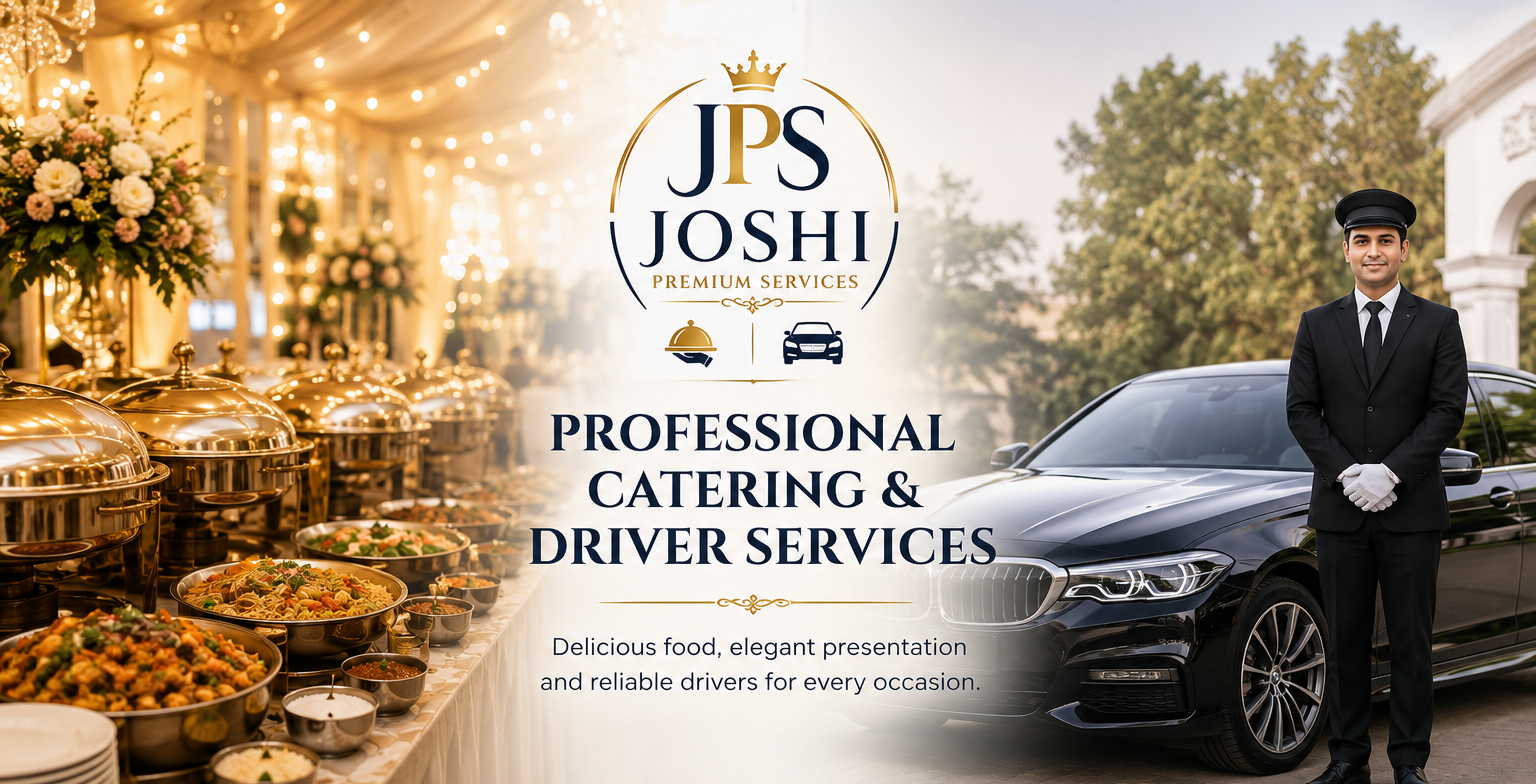
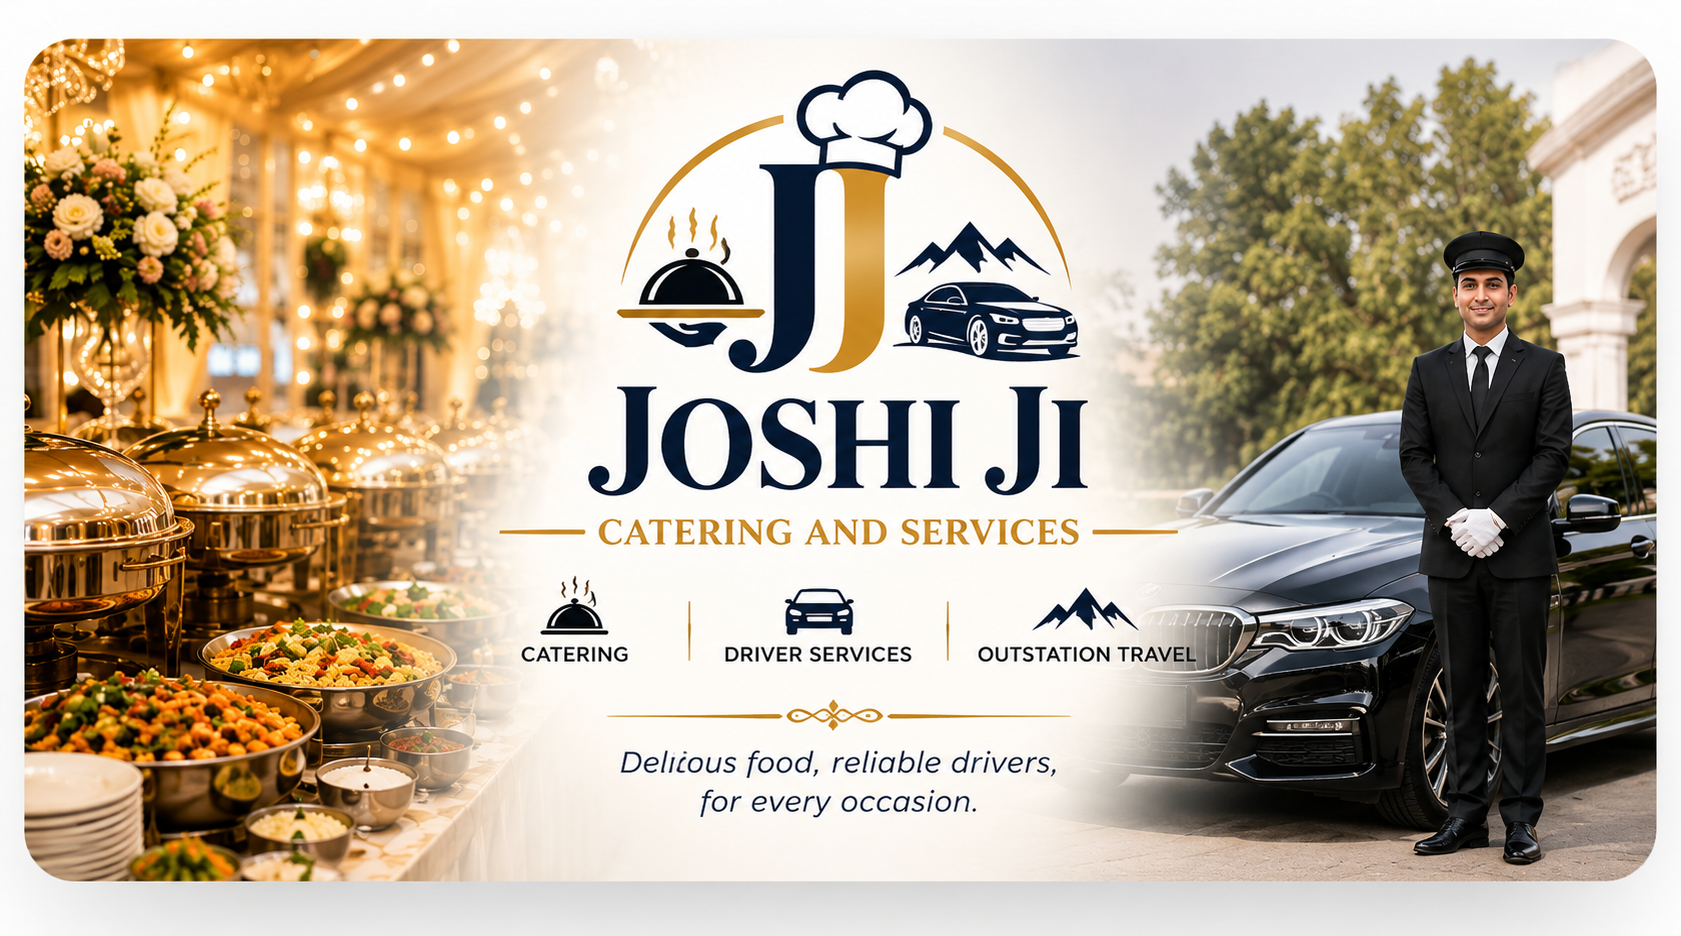
improved responsive service area cards

diff --git a/index.html b/index.html
@@ -6,11 +6,11 @@
     <meta name="viewport" content="width=device-width, initial-scale=1.0">
 
     <!-- Primary SEO -->
-    <title>Joshi Premium Services | Catering & Driver Services in Haldwani, Uttarakhand</title>
+    <title>Joshi Ji Catering And Services | Catering & Driver Services in Haldwani, Uttarakhand</title>
     <meta name="description"
-        content="Joshi Premium Services provides professional catering and reliable driver services for weddings, family functions, corporate events and outstation travel in Haldwani, Kathgodam, Nainital, Rudrapur and nearby areas of Uttarakhand.">
+        content="Joshi Ji Catering And Services provides professional catering and reliable driver services for weddings, family functions, corporate events and outstation travel in Haldwani, Kathgodam, Nainital, Rudrapur and nearby areas of Uttarakhand.">
     <meta name="robots" content="index, follow">
-    <meta name="author" content="Joshi Premium Services">
+    <meta name="author" content="Joshi Ji Catering And Services">
     <meta name="theme-color" content="#0f172a">
 
     <!-- Canonical URL -->
@@ -18,16 +18,17 @@
 
     <!-- Open Graph -->
     <meta property="og:type" content="website">
-    <meta property="og:title" content="Joshi Premium Services | Catering & Driver Services in Haldwani, Uttarakhand">
+    <meta property="og:title"
+        content="Joshi Ji Catering And Services | Catering & Driver Services in Haldwani, Uttarakhand">
     <meta property="og:description"
         content="Professional catering and reliable driver services for events, functions and outstation travel in Haldwani and nearby areas of Uttarakhand.">
     <meta property="og:url" content="https://vanshikjoshi.github.io/Joshi-Premium-Services/">
     <meta property="og:image" content="https://vanshikjoshi.github.io/Joshi-Premium-Services/Logop.png">
-    <meta property="og:site_name" content="Joshi Premium Services">
+    <meta property="og:site_name" content="Joshi Ji Catering And Services">
 
     <!-- Twitter / social sharing -->
     <meta name="twitter:card" content="summary">
-    <meta name="twitter:title" content="Joshi Premium Services | Catering & Driver Services in Haldwani">
+    <meta name="twitter:title" content="Joshi Ji Catering And Services | Catering & Driver Services in Haldwani">
     <meta name="twitter:description"
         content="Professional catering and reliable driver services in Haldwani and nearby areas of Uttarakhand.">
     <meta name="twitter:image" content="https://vanshikjoshi.github.io/Joshi-Premium-Services/Logop.png">
@@ -42,7 +43,7 @@
     {
         "@context": "https://schema.org",
         "@type": "LocalBusiness",
-        "name": "Joshi Premium Services",
+        "name": "Joshi Ji Catering And Services",
         "url": "https://vanshikjoshi.github.io/Joshi-Premium-Services/",
         "telephone": "+91-9761300045",
         "description": "Professional catering and reliable driver services for weddings, family functions, corporate events and outstation travel.",
@@ -82,9 +83,9 @@
 
         <nav class="max-w-7xl mx-auto flex justify-between items-center p-2" aria-label="Primary navigation">
 
-            <a href="#home" aria-label="Joshi Premium Services home">
-                <img class="size-15 pt-1 bg-white rounded-full" src="Logop.png" alt="Joshi Premium Services logo"
-                    width="60" height="60">
+            <a href="#home" aria-label="Joshi Ji Catering And Services home">
+                <img class="size-15 pt-1 bg-white rounded-full" src="Logop.png"
+                    alt="Joshi Ji Catering And Services logo" width="60" height="60">
             </a>
 
             <!-- Desktop navigation -->
@@ -177,7 +178,7 @@
                         </h1>
 
                         <p class="mt-8 text-lg text-gray-600 leading-8">
-                            Joshi Premium Services provides professional catering and
+                            Joshi Ji Catering And Services provides professional catering and
                             reliable driver services for weddings, birthdays,
                             corporate events, family functions and outstation travel
                             in Haldwani, Kathgodam, Nainital, Rudrapur and nearby
@@ -188,19 +189,19 @@
 
                             <a href="tel:+917895336460"
                                 class="px-8 py-4 bg-yellow-500 hover:bg-yellow-600 transition rounded-xl text-white font-semibold"
-                                aria-label="Call Joshi Premium Services for catering">
+                                aria-label="Call Joshi Ji Catering And Services for catering">
                                 Book Catering
                             </a>
 
                             <a href="tel:+919761300045"
                                 class="px-8 py-4 bg-slate-900 hover:bg-slate-800 transition rounded-xl text-white font-semibold"
-                                aria-label="Call Joshi Premium Services to hire a driver">
+                                aria-label="Call Joshi Ji Catering And Services to hire a driver">
                                 Hire Driver
                             </a>
 
                             <a href="https://wa.me/917895336460" target="_blank" rel="noopener noreferrer"
                                 class="px-8 py-4 bg-green-600 hover:bg-green-700 text-white rounded-xl font-semibold transition"
-                                aria-label="Contact Joshi Premium Services on WhatsApp">
+                                aria-label="Contact Joshi Ji Catering And Services on WhatsApp">
                                 WhatsApp Us
                             </a>
 
@@ -242,7 +243,7 @@
                     <!-- Hero image -->
                     <div class="text-center">
                         <img src="Logop.png" class="rounded-4xl mx-auto"
-                            alt="Joshi Premium Services catering and driver services" width="600" height="600">
+                            alt="Joshi Ji Catering And Services catering and driver services" width="600" height="600">
                     </div>
 
                 </div>
@@ -265,7 +266,7 @@
                     <h2 id="about-title" class="text-4xl lg:text-5xl font-bold text-slate-900 mt-5">
                         Welcome to
                         <span class="text-yellow-500">
-                            Joshi Premium Services
+                            Joshi Ji Catering And Services
                         </span>
                     </h2>
 
@@ -295,7 +296,7 @@
                         </h3>
 
                         <p class="text-gray-600 mt-6 leading-8">
-                            At Joshi Premium Services, we believe every customer
+                            At Joshi Ji Catering And Services, we believe every customer
                             deserves dependable service. Whether you need food
                             catering for a special occasion or a professional
                             driver for local and outstation travel, we aim to
@@ -524,7 +525,7 @@
                     </h2>
 
                     <p class="text-gray-600 mt-5 max-w-3xl mx-auto leading-8">
-                        Joshi Premium Services provides catering and driver
+                        Joshi Ji Catering And Services provides catering and driver
                         services in Haldwani, Kathgodam, Rudrapur, Nainital
                         and nearby areas. Availability depends on the service
                         and booking requirements.
@@ -658,7 +659,7 @@
 
                     <p class="text-gray-600 mt-5 max-w-2xl mx-auto leading-8">
                         Whether you need professional catering or an experienced
-                        driver, contact Joshi Premium Services for bookings and
+                        driver, contact Joshi Ji Catering and Driver Services for bookings and
                         enquiries in Haldwani and nearby areas.
                     </p>
 
@@ -670,7 +671,7 @@
                     <!-- Phone -->
                     <a href="tel:+919761300045"
                         class="bg-white rounded-2xl p-6 flex items-center gap-5 shadow-lg transition-transform duration-300 hover:scale-105"
-                        aria-label="Call Joshi Premium Services">
+                        aria-label="Call Joshi Catering and DriverJ Services">
 
                         <div class="w-14 h-14 rounded-full bg-yellow-500 flex items-center justify-center text-2xl"
                             aria-hidden="true">
@@ -693,7 +694,7 @@
                     <!-- WhatsApp -->
                     <a href="https://wa.me/917895336460" target="_blank" rel="noopener noreferrer"
                         class="bg-white rounded-2xl p-6 flex items-center gap-5 shadow-lg transition-transform duration-300 hover:scale-105"
-                        aria-label="WhatsApp Joshi Premium Services">
+                        aria-label="WhatsApp Joshi Ji Catering And Services">
 
                         <div class="w-14 h-14 rounded-full bg-green-500 flex items-center justify-center text-2xl"
                             aria-hidden="true">
@@ -774,11 +775,11 @@
                 <!-- Company -->
                 <div>
 
-                    <img src="Logop.png" alt="Joshi Premium Services" class="w-16 h-16 rounded-full bg-white p-1"
-                        width="64" height="64">
+                    <img src="Logop.png" alt="Joshi Ji Catering And Services"
+                        class="w-16 h-16 rounded-full bg-white p-1" width="64" height="64">
 
                     <h2 class="text-xl font-bold text-white mt-3">
-                        Joshi Premium Services
+                        Joshi Ji Catering And Services
                     </h2>
 
                     <p class="mt-2 text-sm leading-6">
@@ -852,7 +853,7 @@
                 <div class="flex flex-col md:flex-row justify-between items-center gap-2 text-sm">
 
                     <p class="text-center md:text-left">
-                        © 2026 Joshi Premium Services. All Rights Reserved.
+                        © 2026 Joshi Ji Catering And Services. All Rights Reserved.
                     </p>
 
                     <p>
